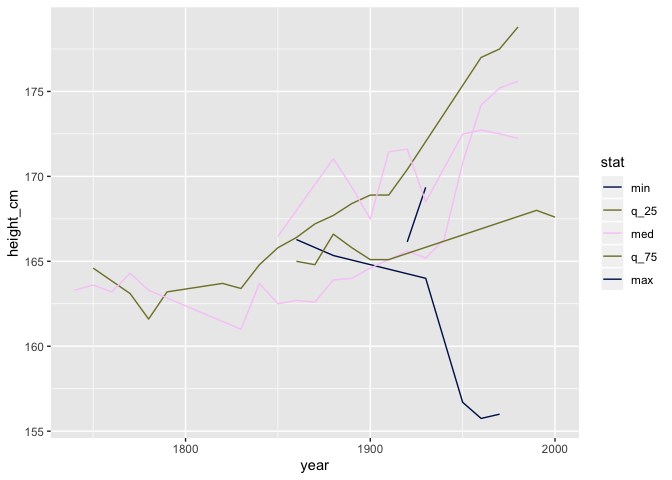
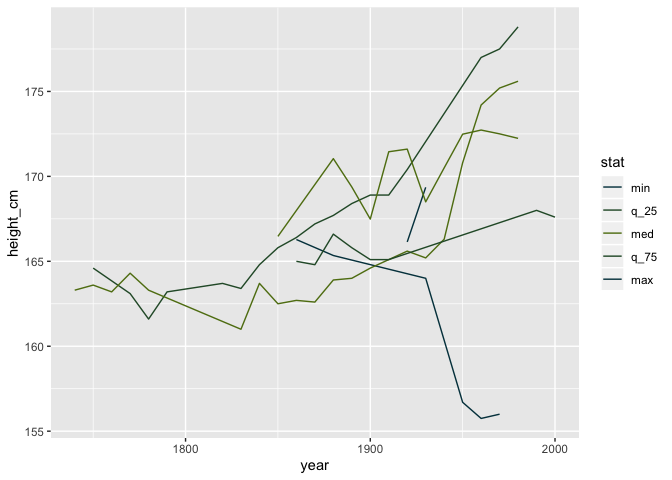
update README

diff --git a/README.md b/README.md
@@ -104,14 +104,27 @@ p
 
 ``` r
 
-p + scale_colour_palap_d()
+# lhs
+p + scale_colour_palap_d(palette = "bamako",
+                         begin = 0,
+                         end = 0.5)
 ```
 
 <img src="man/figures/README-unnamed-chunk-2-2.png" width="100%" />
 
 ``` r
 
-p + scale_colour_palap_d(direction = -1)
+# rhs?
+p + scale_colour_palap_d(palette = "bamako",
+                         begin = 0.5,
+                         end = 1)
 ```
 
 <img src="man/figures/README-unnamed-chunk-2-3.png" width="100%" />
+
+``` r
+
+p + scale_colour_palap_d(direction = -1)
+```
+
+<img src="man/figures/README-unnamed-chunk-2-4.png" width="100%" />
